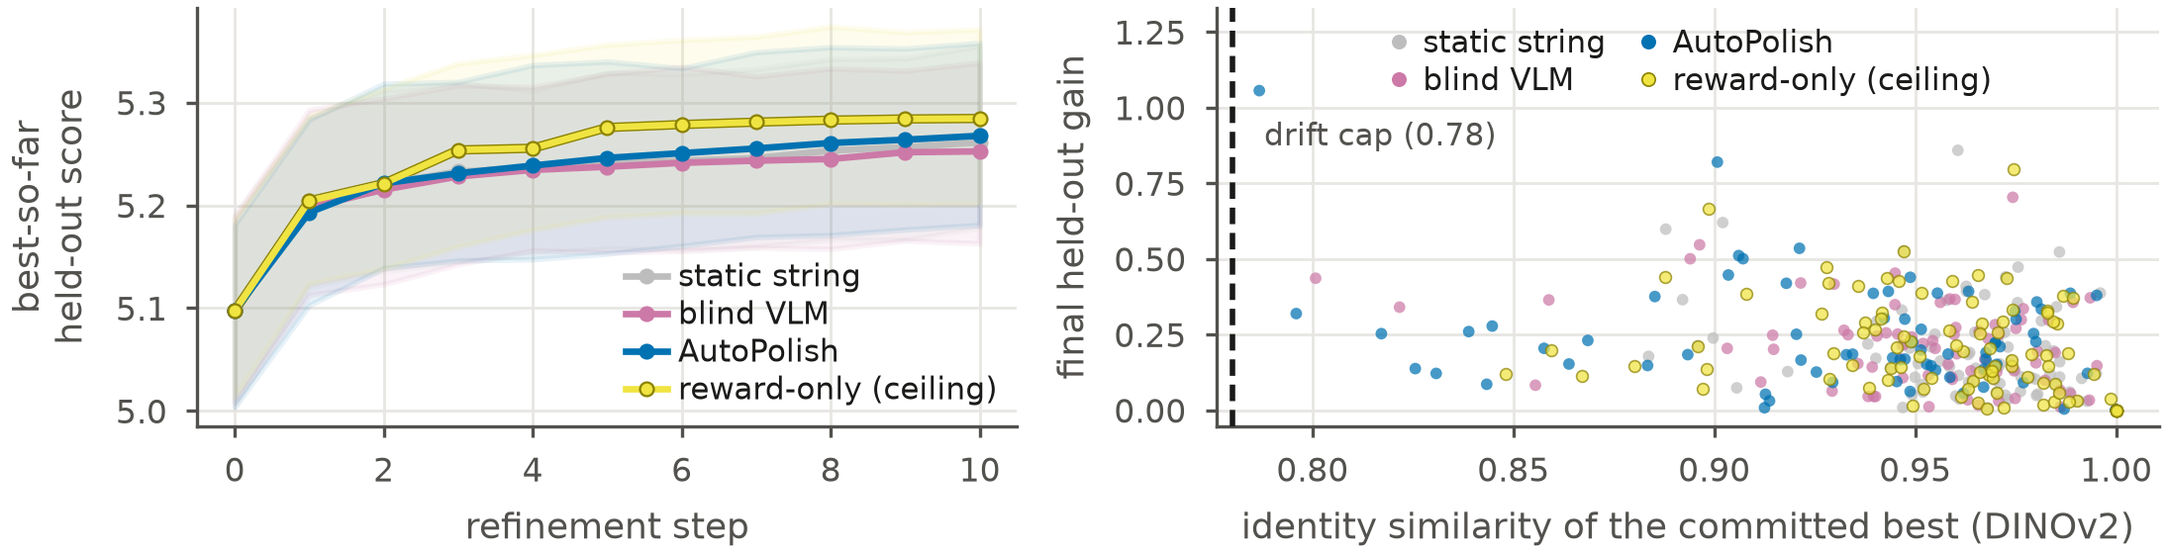
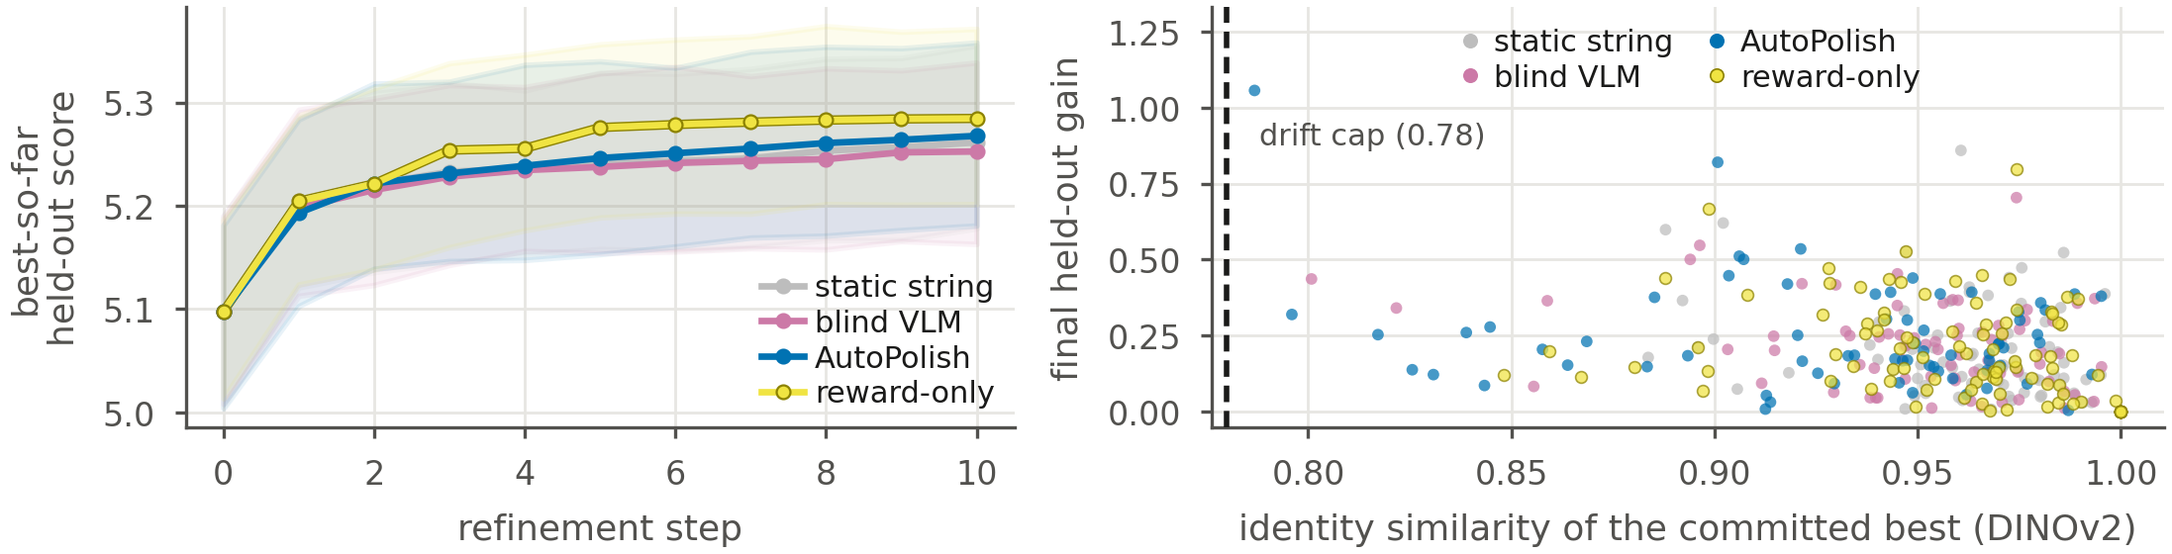
Add paired bootstrap for Table 3 and align editing claims with it
scripts/analysis/c4_paired.py compares AutoPolish with each other critic
image by image: 10,000 paired resamples drawn within PARA and EVA, a
Wilcoxon signed-rank test (exact McNemar for the share of improved images)
and Holm over the three comparisons, for gain, share improved and edit size.

The gains are statistically indistinguishable (Holm p >= 0.16), so the paper
now says so:
- Table 3 gets a "Delta vs AutoPolish [95% CI]" column, set in the style of
  Tables 4 and 5 so it fits the text width, with no bold on untested values.
- Section 5.4 reports the paired tests, calls gain per improved descriptive
  and states the single-seed limit. The appendix notes the 10,000 resamples.
- Abstract, introduction, contributions and conclusion say AutoPolish
  matches generic critics in average gain instead of beating them.
- Fig. 6 caption and text no longer claim AutoPolish pulls ahead; the
  K=1 ablation says "remains comparable" (paired p = 0.87 and 0.92).
- reward-only is called a baseline, not a ceiling: it has no critic and
  cycles through generic prompts. Fig. 6 legend regenerated to match.

diff --git a/docs/paper/accv-wrkshop/autopolish.tex b/docs/paper/accv-wrkshop/autopolish.tex
@@ -120,7 +120,7 @@ Sajjad Pakdamansavoji\inst{1}$^{\star}$\thanks{Corresponding author.}}
 \maketitle
 
 \begin{abstract}
-Text-guided image editing is an unscalable back-and-forth process. Relying on a single human operator restricts the final image to one person's taste, which often misaligns with the target audience. We propose \textbf{AutoPolish}, which replaces that single opinion with a synthetic audience, many copies of a vision-language model that each react as a different viewer described by a short profile. Their combined feedback stands in for how the intended audience would respond, and an auto-research style loop turns it into edits over a fixed number of rounds, keeping each edit only when an independent scorer rates it higher. Across three datasets of photographs and paintings, we show that only 19 to 47\% of one person's rating is shared with other viewers, while the averages of two separate groups agree at a correlation of up to $0.96$, so one viewer is a poor guide to a crowd. We also show that our audience captures how viewer groups differ up to $10\times$ better than the same model without profiles, and picks the crowd's favorite of two AI-generated images 6 percentage points more often than a simple baseline. In editing, AutoPolish improves images more than a single generic critic on average while keeping them recognizable, and proposes $3\times$ as many distinct changes.
+Text-guided image editing is an unscalable back-and-forth process. Relying on a single human operator restricts the final image to one person's taste, which often misaligns with the target audience. We propose \textbf{AutoPolish}, which replaces that single opinion with a synthetic audience, many copies of a vision-language model that each react as a different viewer described by a short profile. Their combined feedback stands in for how the intended audience would respond, and an auto-research style loop turns it into edits over a fixed number of rounds, keeping each edit only when an independent scorer rates it higher. Across three datasets of photographs and paintings, we show that only 19 to 47\% of one person's rating is shared with other viewers, while the averages of two separate groups agree at a correlation of up to $0.96$, so one viewer is a poor guide to a crowd. We also show that our audience captures how viewer groups differ up to $10\times$ better than the same model without profiles, and picks the crowd's favorite of two AI-generated images 6 percentage points more often than a simple baseline. In editing, AutoPolish matches generic critics in average gain while keeping images recognizable. It improves fewer images than a fixed instruction but makes larger edits, and proposes $3\times$ as many distinct changes.
 
 \keywords{Image editing \and Auto-Research \and Persona Simulation \and VLM}
 \end{abstract}
@@ -132,14 +132,14 @@ Historically, image editing required mastering fixed software operations. Editor
 
 Two lines of work have tried to take the operator out of this cycle, and each falls short on one of these limits. Computational aesthetics replaces the operator's judgment with a model that scores how good an image looks \cite{murray2012ava, talebi2018nima, ke2023vila, wu2024qalign}, but nearly every such model returns a single score per image, which averages over viewers who often disagree. That disagreement reflects real differences in taste rather than noise \cite{uma2021, plank2022, yang2022para}, so a single score speaks for an average viewer who does not exist, and models of individual taste \cite{ren2017personalized, zhu2022meta, pamela2026} need each user's own ratings. Aesthetic quality is therefore better understood as the reaction of an audience than as a property of the image, and a critic that stands in for the operator has to predict how a group of viewers would respond. Automated pipelines remove the time limit, but they either raise a fixed score in a single training run \cite{xu2023imagereward, black2024ddpo, wallace2024dpo} or let one model critique and repair its own output \cite{madaan2023selfrefine, wu2024sld, wang2024genartist}, in which case the model that proposes an edit also judges it and can mistake its own bias for improvement \cite{xu2024selfbias}. Editing, however, is a repeated cycle of editing, judging and trying again, and an automated editor has to run that cycle itself, trying different edits and keeping only those that a separate judge finds better while the image still looks like the original.
 
-We build \textbf{AutoPolish} around these two ideas. To replace the single score, we create a synthetic audience by asking one frozen vision-language model to react to an image many times, each time as a different viewer described by a short text profile that we call a persona, and we combine these reactions into a collective verdict and a list of complaints. To replace the operator's back-and-forth, we place this audience inside an auto-research style loop~\cite{karpathy2026autoresearch}, that is, a loop in which an agent proposes a change, the change is scored on a fixed metric, and it is kept only if the score improves. In our loop, the audience's complaints become an editing instruction, an image editor carries it out, and an independent scorer from a different model family keeps the edit only if it rates the result higher and the image still looks like the original. Our evaluations show that the audience suggests three times as many distinct edits as a single generic critic, such as adding plants and artwork to a bare office, while also improving the image more on average. A single simulated viewer barely beats a coin flip at guessing which of two images people prefer, yet twenty of them together agree with people two times in three, which is why we rely on an audience rather than one voice.
+We build \textbf{AutoPolish} around these two ideas. To replace the single score, we create a synthetic audience by asking one frozen vision-language model to react to an image many times, each time as a different viewer described by a short text profile that we call a persona, and we combine these reactions into a collective verdict and a list of complaints. To replace the operator's back-and-forth, we place this audience inside an auto-research style loop~\cite{karpathy2026autoresearch}, that is, a loop in which an agent proposes a change, the change is scored on a fixed metric, and it is kept only if the score improves. In our loop, the audience's complaints become an editing instruction, an image editor carries it out, and an independent scorer from a different model family keeps the edit only if it rates the result higher and the image still looks like the original. Our evaluations show that the audience suggests three times as many distinct edits as a single generic critic, such as adding plants and artwork to a bare office, while reaching a comparable average gain. A single simulated viewer barely beats a coin flip at guessing which of two images people prefer, yet twenty of them together agree with people two times in three, which is why we rely on an audience rather than one voice.
 
 Our contributions are as follows.
 
 \begin{itemize}[leftmargin=1.4em, itemsep=2pt, topsep=2pt, parsep=0pt]
 \item We simulate collective taste with a synthetic audience that captures how viewer groups differ $10\times$ better than the same model without profiles.
 
-\item We model the back-and-forth of editing with a custom auto-research loop that beats a generic critic on average and suggests $3\times$ as many distinct edits.
+\item We model the back-and-forth of editing with a custom auto-research loop that matches generic critics in average gain and suggests $3\times$ as many distinct edits.
 
 \item We evaluate on photographs, paintings and AI-generated images, where the audience beats a simple baseline by 6 percentage points on AI-generated pairs.
 \end{itemize}
@@ -252,13 +252,13 @@ Our contributions are as follows.
 \subsubsection{From a panel to a group prediction.} To predict how a viewer group responds to an image, we sample $N$ persona cards from the dataset and use them to judge the image, and summarize the reactions: the mean and spread of the scores, the most frequent complaints extracted from the rationales, and compare them with the ground truth scoring.
 
 Panel averaging alone fails because judge errors are systematic, not random. Ratings skew toward the middle: their standard deviation is just 51-58\% of humans', 34-56\% hit one value, and endpoints are rarely used. Averaging fixes random error, but shared compression remains. Thus, raw averages are less accurate than just predicting the population mean. We therefore correct post-inference scores via isotonic regression \cite{niculescu2005}. This fits a monotone map from raw to calibrated scores. We use two-fold cross-fitting over images, ensuring each rating is calibrated by an independently estimated map. The monotone map alters absolute error but preserves rankings, and acting only on outputs keeps model weights frozen. This map also transfers across datasets. We can fit it once on real images with human ratings, then apply it unchanged to generated images lacking them.
-\subsubsection{AutoPolish.} AutoPolish uses the group as the critic in an iterative editing loop, under the constraint that the model proposing edits and the model judging them are different, since a loop that scores its own edits can improve its objective without improving the image. Each image is refined for $R=10$ steps of (i) \textbf{critique}: the group views the current image, and its complaints are aggregated across personas and accumulated across steps into a single instruction of at most fifteen words; (ii) \textbf{anchored re-edit}: FLUX.1-Kontext-dev \cite{flux2024} applies that instruction to the \emph{original} image rather than the previous edit, so editing artifacts do not compound, producing $K=3$ candidates; (iii) \textbf{held-out scoring}: each candidate is scored by the LAION aesthetic predictor described above, a different model family from the critic, and checked for identity drift with DINOv2 \cite{oquab2023}; (iv) \textbf{accept-if-better}: the new image replaces the previous best image if the aesthetic score improves and DINOv2 similarity to the original stays above $0.78$, so the best-so-far score increases monotonically. We compare four critics: \textsc{static}, a fixed ``improve this image'' instruction; \textsc{blind}, a single persona-free critique; \textsc{society}, ten aggregated personas, which is our method; and \textsc{reward-only}, which optimizes the aesthetic predictor directly and is an upper reference rather than a comparable baseline. Every condition appends the same suffix asking for a visible edit, so the request sent to the editor is worded the same in every condition, and we deliberately do not score instruction adherence, which would favour whichever condition writes the instruction that is easiest to follow.
+\subsubsection{AutoPolish.} AutoPolish uses the group as the critic in an iterative editing loop, under the constraint that the model proposing edits and the model judging them are different, since a loop that scores its own edits can improve its objective without improving the image. Each image is refined for $R=10$ steps of (i) \textbf{critique}: the group views the current image, and its complaints are aggregated across personas and accumulated across steps into a single instruction of at most fifteen words; (ii) \textbf{anchored re-edit}: FLUX.1-Kontext-dev \cite{flux2024} applies that instruction to the \emph{original} image rather than the previous edit, so editing artifacts do not compound, producing $K=3$ candidates; (iii) \textbf{held-out scoring}: each candidate is scored by the LAION aesthetic predictor described above, a different model family from the critic, and checked for identity drift with DINOv2 \cite{oquab2023}; (iv) \textbf{accept-if-better}: the new image replaces the previous best image if the aesthetic score improves and DINOv2 similarity to the original stays above $0.78$, so the best-so-far score increases monotonically. We compare four critics: \textsc{static}, a fixed ``improve this image'' instruction; \textsc{blind}, a single persona-free critique; \textsc{society}, ten aggregated personas, which is our method; and \textsc{reward-only}, which has no critic and cycles through eight generic instructions, so that only the scorer's choice among candidates guides it. Every condition appends the same suffix asking for a visible edit, so the request sent to the editor is worded the same in every condition, and we deliberately do not score instruction adherence, which would favour whichever condition writes the instruction that is easiest to follow.
 
 \section{Experimental setup}
 
 \subsubsection{Data.} We use four public datasets in which every record ties an aesthetic judgment to the person who made it and to personal information about that person. PARA \cite{yang2022para} contains photographs, of which we use 4{,}000 with about 52k individual ratings, and describes its raters in the most detail: age, gender, education, art and photography experience, and Big-Five personality traits. EVA \cite{kang2020eva} contains 4{,}070 photographs drawn from AVA \cite{murray2012ava} with 137k ratings, but records only age, gender, region and photographic skill. LAPIS \cite{maerten2025lapis} contains paintings, of which we use 4{,}000 with 90k ratings, and records nationality, interest in art and age. Rapidata \cite{rapidata2024} contains 898 pairs of AI-generated images with 23{,}445 preference votes, and records each voter's country and language across 120 countries.
 
-\subsubsection{Models and baselines.} We compare three variants throughout the paper. The blind variant uses the model with no viewer profile, which in editing becomes a single critic or a fixed generic instruction, and it shows what the model does on its own. The synthetic audience, our approach, asks the same model to react to an image many times, each time as a different viewer described by a short profile, and combines these reactions into a group verdict that, in editing, also serves as the critic that guides each round. The oracle has access to the real ratings, either as a bar the synthetic audience must clear, such as always predicting the average rating or the more popular image, or as a ceiling, such as a second group of real viewers or, in editing, a loop that optimizes the scorer directly. The exact form of each variant depends on the experiment, and we describe it alongside the results.
+\subsubsection{Models and baselines.} We compare three variants throughout the paper. The blind variant uses the model with no viewer profile, which in editing becomes a single critic or fixed generic instructions, and it shows what the model does on its own. The synthetic audience, our approach, asks the same model to react to an image many times, each time as a different viewer described by a short profile, and combines these reactions into a group verdict that, in editing, also serves as the critic that guides each round. The oracle has access to the real ratings, either as a bar the synthetic audience must clear, such as always predicting the average rating or the more popular image, or as a ceiling, such as a second group of real viewers. The exact form of each variant depends on the experiment, and we describe it alongside the results.
 
 \subsubsection{Evaluation protocol.} To test whether the audience tells viewer groups apart, we use between-group separation. We split the raters of each image into groups by one attribute, such as age or interest in art, take the gap between every pair of groups in both the real and the predicted ratings, and report the correlation between the two, which rewards getting differences between viewers right rather than the overall average. To test whether a model knows which of two images people prefer, we report how often it picks the right one. To measure what editing achieves, we report the gain in aesthetic score and the share of images that improve, while checking that each edited image stays close to the original. We use bootstrap resampling over images to give a 95\% confidence interval for each difference between variants, and we correct for multiple testing when running several group tests. Throughout, the judge's scores are mapped onto the human rating scale by a correction fit on one half of the images and applied to the other, so no score is corrected using its own rating.
 
@@ -375,41 +375,41 @@ Figure~\ref{fig:generated} (left) shows that the vote of a single persona-condit
 \subsection{The synthetic audience can steer image editing}
 \label{sec:c4}
 
-We test whether the synthetic audience can serve as the critic in the loop of AutoPolish, improving images while keeping them recognizable. We run the loop for ten rounds on 100 photographs, 50 from PARA and 50 from EVA, and compare the four critics of Section~\ref{sec:method}: the static string (\textsc{static}), the blind VLM (\textsc{blind}), AutoPolish (\textsc{society}, ten personas) and the reward-only ceiling, which serves as an upper reference rather than a fair competitor (prompts in Appendix~\appref{sup:prompts}{A8}). All scores come from the independent scorer. Besides the gain in score and the share of images that improve, we report the gain on the images that do improve, the edit size, which is one minus the DINOv2 similarity between the final image and the original and is capped at 0.22 by the similarity floor of 0.78, and how many distinct complaints the critic raises per round.
+We test whether the synthetic audience can serve as the critic in the loop of AutoPolish, improving images while keeping them recognizable. We run the loop for ten rounds on 100 photographs, 50 from PARA and 50 from EVA, and compare the four critics of Section~\ref{sec:method}: the static string (\textsc{static}), the blind VLM (\textsc{blind}), AutoPolish (\textsc{society}, ten personas) and the reward-only baseline, which has no critic (prompts in Appendix~\appref{sup:prompts}{A8}). All scores come from the independent scorer. Besides the gain in score and the share of images that improve, we report the gain on the images that do improve, the edit size, which is one minus the DINOv2 similarity between the final image and the original and is capped at 0.22 by the similarity floor of 0.78, and how many distinct complaints the critic raises per round.
 
 \begin{table}[b]
-  \caption{Results of each critic over ten rounds on 100 photographs, where edit size is how much the final image differs from the original. AutoPolish gives the largest gain among the critics, the largest gain on the images it improves, and the most feedback.}
+  \caption{Results of each critic over ten rounds on 100 photographs, where edit size is how much the final image differs from the original and $\Delta$ is the gain of AutoPolish minus the critic's on the same images, with a 95\% paired bootstrap interval. The average gains are statistically indistinguishable, while AutoPolish makes the largest edits and gives the most feedback.}
   \label{tab:c4}
   \centering
-  \fontsize{8}{9.5}\selectfont
+  \fontsize{7.5}{9}\selectfont
   \setlength{\aboverulesep}{0pt}\setlength{\belowrulesep}{0pt}
   \renewcommand{\arraystretch}{1.1}
-  \setlength{\tabcolsep}{3.5pt}
-  \begin{tabular*}{\linewidth}{@{\extracolsep{\fill}}l|cccccc@{}}
+  \setlength{\tabcolsep}{2pt}
+  \begin{tabular*}{\linewidth}{@{\extracolsep{\fill}}l|ccccccc@{}}
     \toprule
-    \multirow{2}{*}{Critic} & \multirow{2}{*}{Gain $\uparrow$} & \multirow{2}{*}{95\% CI} & \multirow{2}{*}{Improved} & Gain per\rule{0pt}{2.4ex} & Edit & \multirow{2}{*}{Complaints $\uparrow$} \\
-    \rule[-0.8ex]{0pt}{0pt} & & & & improved $\uparrow$ & size & \\
+    \multirow{2}{*}{Critic} & \multirow{2}{*}{Gain $\uparrow$} & \multirow{2}{*}{95\% CI} & $\Delta$ vs AutoPolish\rule{0pt}{2.4ex} & Images & Gain per & Edit & Complaints \\
+    \rule[-0.8ex]{0pt}{0pt} & & & [95\% CI] & improved & improved & size & per round $\uparrow$ \\
     \midrule
-    static string\rule{0pt}{2.3ex} & $+0.164$ & [0.135, 0.196] & 84\% & 0.195 & 0.032 & n/a \\
-    blind VLM            & $+0.155$ & [0.126, 0.185] & 72\% & 0.215 & 0.036 & 1.00 \\
-    \textbf{AutoPolish (ours)}\rule[-0.7ex]{0pt}{0pt} & $\mathbf{+0.170}$ & [0.136, 0.207] & 69\% & \textbf{0.247} & \textbf{0.049} & \textbf{3.12} \\
+    static string\rule{0pt}{2.3ex} & 0.164 & [0.135,\,0.196] & 0.006 [$-$0.020,\,0.037] & 84\% & 0.195 & 0.032 & n/a \\
+    blind VLM            & 0.155 & [0.126,\,0.185] & 0.015 [$-$0.010,\,0.043] & 72\% & 0.215 & 0.036 & 1.00 \\
+    \textbf{AutoPolish}\rule[-0.7ex]{0pt}{0pt} & 0.170 & [0.136,\,0.207] & n/a & 69\% & 0.247 & 0.049 & \textbf{3.12} \\
     \midrule
-    \textit{reward-only (ceiling)}\rule{0pt}{2.3ex}\rule[-0.7ex]{0pt}{0pt} & $+0.187$ & [0.157, 0.221] & 86\% & 0.218 & 0.040 & n/a \\
+    \textit{reward-only}\rule{0pt}{2.3ex}\rule[-0.7ex]{0pt}{0pt} & 0.187 & [0.157,\,0.221] & $-$0.017 [$-$0.045,\,0.013] & 86\% & 0.218 & 0.040 & n/a \\
     \bottomrule
   \end{tabular*}
 \end{table}
 
-Table~\ref{tab:c4} shows that AutoPolish gives the largest score gain of the three critics, raising the independent score by 0.170 on average, from 5.10 to 5.27, against 0.164 for the static string and 0.155 for the blind VLM. Our method improves fewer images than the static string, 69\% against 84\%, but changes the ones it improves more. The gain on those images is 0.247, higher than for any other critic and the reward-only ceiling (0.218), and its edits are the largest (0.049), while every critic stays well below the cap of 0.22. AutoPolish also raises about three distinct complaints per round, against one for the blind VLM, while the static string always repeats the same instruction.
+Table~\ref{tab:c4} shows that AutoPolish raises the independent score by 0.170 on average, from 5.10 to 5.27, more than the static string (0.164) and the blind VLM (0.155) but less than the reward-only baseline (0.187). Compared image by image, however, every difference in gain has an interval that includes zero and none survives a Holm correction over the three comparisons (Wilcoxon signed-rank, Holm $p \geq 0.16$), so the average gains are statistically indistinguishable. Our method improves fewer images than the static string, 69\% against 84\% (McNemar, Holm $p = 0.008$), but changes the ones it improves more. The gain on those images is 0.247, higher than for any other critic, including the reward-only baseline (0.218), but this comparison is only descriptive, since each critic improves a different set of images. Its edits are also the largest (0.049), though clearly so only against the static string (Holm $p = 0.03$), while every critic stays well below the cap of 0.22. Each critic ran once with a single seed, so these intervals cover variation over images, not over seeds. AutoPolish also raises about three distinct complaints per round, against one for the blind VLM, while the static string always repeats the same instruction.
 
 \begin{figure}[t]
   \centering
   \captionsetup{skip=3pt}% tighter image-to-caption gap, this float only
   \includegraphics[width=\linewidth]{figs/pf_autopolish_accv.png}
-  \caption{How each critic behaves over ten rounds. \textbf{(left)} Best score so far at each round, averaged over 100 photographs, with a 95\% bootstrap band. \textbf{(right)} Final gain of each image against its similarity to the original, with the 0.78 floor marked. AutoPolish leads from the fourth round, and almost every image stays far above the floor.}
+  \caption{How each critic behaves over ten rounds. \textbf{(left)} Best score so far at each round, averaged over 100 photographs, with a 95\% bootstrap band. \textbf{(right)} Final gain of each image against its similarity to the original, with the 0.78 floor marked. The curves of all critics stay within each other's bootstrap bands, and almost every image stays far above the floor.}
   \label{fig:c4quant}
 \end{figure}
 
-Figure~\ref{fig:c4quant} (left) shows that most of the gain arrives in the first few rounds, but the difference between critics becomes clearer as the rounds go on, with AutoPolish starting slightly behind and pulling ahead of the other critics from the fourth round. Figure~\ref{fig:c4quant} (right) shows that almost every final image stays well above the similarity floor. Figure~\ref{fig:c4prog} shows how AutoPolish gradually improves images over several rounds while keeping them similar to the original. Figure~\ref{fig:c4qual} compares the critics on the same images and shows the larger edits and gains of AutoPolish. Together, these results suggest that the synthetic audience is an effective critic for editing, exceeding simpler critics in average score while making larger and more concrete changes. Appendix~\appref{sup:c4qual}{A7} gives more examples.
+Figure~\ref{fig:c4quant} (left) shows that every critic makes about 80\% of its gain in the first three rounds, and that the curves of all critics stay within each other's bootstrap bands throughout. Figure~\ref{fig:c4quant} (right) shows that almost every final image stays well above the similarity floor. Figure~\ref{fig:c4prog} shows how AutoPolish gradually improves images over several rounds while keeping them similar to the original. Figure~\ref{fig:c4qual} compares the critics on the same images and shows the larger edits and gains of AutoPolish on the images where it helped most. Together, these results suggest that the synthetic audience is an effective critic for editing, matching simpler critics in average score while making larger changes. Appendix~\appref{sup:c4qual}{A7} gives more examples.
 
 \begin{figure}[tb]
   \centering
@@ -455,7 +455,7 @@ Figure~\ref{fig:c4quant} (left) shows that most of the gain arrives in the first
   \end{tabular*}
 \end{table}
 
-\textbf{Accept-if-better rule.} The AutoPolish loop keeps a new edit only if the independent scorer, the LAION aesthetic predictor, rates it higher than the best image so far. We test the effect of this rule by removing it, so that the best candidate of each round replaces the current image even when it scores lower. Table~\ref{tab:abl-guard}a shows that without the rule the gain of AutoPolish falls from 0.170 to 0.024 and that of the blind VLM from 0.155 to 0.008, so that neither differs from zero any more, while the static string and the reward-only ceiling keep less than half of their gain. The rule is therefore essential, because the critics propose bold changes and the independent scorer decides which of them to keep.
+\textbf{Accept-if-better rule.} The AutoPolish loop keeps a new edit only if the independent scorer, the LAION aesthetic predictor, rates it higher than the best image so far. We test the effect of this rule by removing it, so that the best candidate of each round replaces the current image even when it scores lower. Table~\ref{tab:abl-guard}a shows that without the rule the gain of AutoPolish falls from 0.170 to 0.024 and that of the blind VLM from 0.155 to 0.008, so that neither differs from zero any more, while the static string and the reward-only baseline keep less than half of their gain. The rule is therefore essential, because the critics propose bold changes and the independent scorer decides which of them to keep.
 
 \textbf{Identity preservation.} AutoPolish also rejects any candidate whose similarity to the original falls below 0.78, so that the edited image keeps its identity. We test what this similarity floor protects by removing it and measuring how far the final images move from the original. Table~\ref{tab:abl-guard}b shows that without the floor the edit size of our method more than doubles, from 0.049 to 0.108, and 12\% of its final images fall below a similarity of 0.78, with the lowest at 0.07. These 12 images gain 0.502 on average, about three times the gain of the full loop. The floor therefore keeps AutoPolish an editor rather than an image generator.
 
@@ -481,13 +481,13 @@ Figure~\ref{fig:c4quant} (left) shows that most of the gain arrives in the first
   \end{tabular*}
 \end{table}
 
-\textbf{Candidates per round.} At each round the editor produces three candidates from different random seeds, and the loop keeps the one that the independent scorer, the LAION aesthetic predictor, rates highest. We test whether this selection, rather than the critic, produces the gain by keeping only the first one or two candidates of every round. Table~\ref{tab:abl-setting}a shows that with a single candidate AutoPolish still gains 0.141, which is 83\% of its gain with three, and stays ahead of the static string and the blind VLM at 0.130 and 0.131. Going from one to three candidates adds between 0.024 and 0.034 to every critic, so the selection among candidates explains only a small part of the gain.
+\textbf{Candidates per round.} At each round the editor produces three candidates from different random seeds, and the loop keeps the one that the independent scorer, the LAION aesthetic predictor, rates highest. We test whether this selection, rather than the critic, produces the gain by keeping only the first one or two candidates of every round. Table~\ref{tab:abl-setting}a shows that with a single candidate AutoPolish still gains 0.141, which is 83\% of its gain with three, and remains comparable to the static string and the blind VLM at 0.130 and 0.131. Going from one to three candidates adds between 0.024 and 0.034 to every critic, so the selection among candidates explains only a small part of the gain.
 
-\textbf{Similarity floor.} Since the floor protects the identity of the image, we also test how much the results depend on its value by varying it between 0.70 and 0.94 and by removing it. Table~\ref{tab:abl-setting}b shows that the floor only limits the critics that write their own instructions, since the static string and the reward-only ceiling keep almost the same gain at every floor up to 0.86, whereas the gain of AutoPolish rises to 0.215 without a floor, above the reward-only ceiling of 0.187. All of this extra gain comes from the images that lose their identity in Table~\ref{tab:abl-guard}b. Tightening the floor to 0.94 instead lowers every critic to between 0.121 and 0.159. The floor therefore trades gain against closeness to the original, and AutoPolish is the critic that presses hardest against it.
+\textbf{Similarity floor.} Since the floor protects the identity of the image, we also test how much the results depend on its value by varying it between 0.70 and 0.94 and by removing it. Table~\ref{tab:abl-setting}b shows that the floor only limits the critics that write their own instructions, since the static string and the reward-only baseline keep almost the same gain at every floor up to 0.86, whereas the gain of AutoPolish rises to 0.215 without a floor, above the reward-only baseline (0.187). All of this extra gain comes from the images that lose their identity in Table~\ref{tab:abl-guard}b. Tightening the floor to 0.94 instead lowers every critic to between 0.121 and 0.159. The floor therefore trades gain against closeness to the original, and AutoPolish is the critic that presses hardest against it.
 
 \section{Conclusion}
 
-We presented AutoPolish, an automated image editor that replaces the single person guiding each round of editing with a synthetic audience, many copies of one vision-language model that each react as a different viewer, and keeps an edit only when an independent scorer rates it higher and the image still resembles the original. We showed that such an audience captures how real groups of viewers differ, and that in editing it improves images more than a generic critic on average while proposing three times as many distinct changes, with the independent scorer and the similarity floor turning these bolder proposals into gains that keep the image recognizable. Since the audience is only as faithful as its profiles and our gains are measured by an automatic scorer, the natural next step is to test with real viewers whether they prefer the edits their synthetic counterpart requests.
+We presented AutoPolish, an automated image editor that replaces the single person guiding each round of editing with a synthetic audience, many copies of one vision-language model that each react as a different viewer, and keeps an edit only when an independent scorer rates it higher and the image still resembles the original. We showed that such an audience captures how real groups of viewers differ, and that in editing it matches a generic critic in average gain while proposing three times as many distinct changes, with the independent scorer and the similarity floor turning these bolder proposals into gains that keep the image recognizable. Since the audience is only as faithful as its profiles and our gains are measured by an automatic scorer, the natural next step is to test with real viewers whether they prefer the edits their synthetic counterpart requests.
 
 % TODO FINAL: add acknowledgements here (omitted for double-blind review).
 
@@ -527,7 +527,7 @@ We presented AutoPolish, an automated image editor that replaces the single pers
 \newcommand{\tstrut}{\rule{0pt}{2.3ex}}
 \newcommand{\bstrut}{\rule[-0.7ex]{0pt}{0pt}}
 
-This appendix gives further detail behind the main paper. Appendix~\ref{sup:data} summarizes the four datasets, Appendix~\ref{sup:calib} explains why the audience's ratings need calibration and how well the calibration carries over between datasets, Appendix~\ref{sup:probe} describes the classifier that reads a rater's profile from the comments, and Appendix~\ref{sup:fig2} lists the exact values behind Figure~\ref{fig:persona}. Appendix~\ref{sup:robust} tests the audience against the most likely objections and Appendix~\ref{sup:fairness} measures whether it treats all kinds of viewers alike. Appendix~\ref{sup:c4qual} shows more AutoPolish edits, Appendix~\ref{sup:prompts} gives every prompt verbatim, and Appendix~\ref{sup:example} follows one image through one round of the loop. We close with future directions, ethics and reproducibility. Every confidence interval comes from 1{,}000 bootstrap resamples of images or raters, as stated with each result.
+This appendix gives further detail behind the main paper. Appendix~\ref{sup:data} summarizes the four datasets, Appendix~\ref{sup:calib} explains why the audience's ratings need calibration and how well the calibration carries over between datasets, Appendix~\ref{sup:probe} describes the classifier that reads a rater's profile from the comments, and Appendix~\ref{sup:fig2} lists the exact values behind Figure~\ref{fig:persona}. Appendix~\ref{sup:robust} tests the audience against the most likely objections and Appendix~\ref{sup:fairness} measures whether it treats all kinds of viewers alike. Appendix~\ref{sup:c4qual} shows more AutoPolish edits, Appendix~\ref{sup:prompts} gives every prompt verbatim, and Appendix~\ref{sup:example} follows one image through one round of the loop. We close with future directions, ethics and reproducibility. Every confidence interval comes from 1{,}000 bootstrap resamples of images or raters, as stated with each result, except the paired differences between critics in Table~\ref{tab:c4}, which use 10{,}000 resamples of images drawn separately within PARA and within EVA.
 
 \section{Datasets}
 \label{sup:data}
@@ -889,12 +889,12 @@ Viewers looking at this image want these changes:\\
 Rewrite everything into ONE concrete imperative photo-edit instruction of at most 15 words that an image editor can apply. Output only the instruction.
 \end{promptbox}
 
-\subsubsection{Editor instructions shared by all critics.} The static string uses one fixed instruction in every round, the reward-only ceiling cycles through eight generic instructions, and the other critics write their own. For every critic, the same request for a visible edit is appended to the instruction before it reaches the image editor.
+\subsubsection{Editor instructions shared by all critics.} The static string uses one fixed instruction in every round, the reward-only baseline cycles through eight generic instructions, and the other critics write their own. For every critic, the same request for a visible edit is appended to the instruction before it reaches the image editor.
 \begin{promptbox}{Static string (fixed instruction)}
 \ttfamily
 Improve the overall aesthetic quality of this image.
 \end{promptbox}
-\begin{promptbox}{Reward-only ceiling (one per round, in this order, repeating after the eighth)}
+\begin{promptbox}{Reward-only baseline (one per round, in this order, repeating after the eighth)}
 \ttfamily
 Improve the overall aesthetic quality of this image.\\
 Enhance lighting, contrast, and color balance.\\

diff --git a/scripts/analysis/c4_paired.py b/scripts/analysis/c4_paired.py
@@ -1,0 +1,129 @@
+"""C4 paired comparison — AutoPolish against every other critic, image by image (Table 3).
+
+All four critics edit the same 100 source images, so each comparison is paired. For each
+image and each other critic we take d = metric(society) - metric(other) and report:
+
+  1. the mean of d with a 95% paired bootstrap CI. Images are resampled with replacement,
+     separately within PARA and within EVA (50 each), and the same draw serves both
+     critics, which is what makes it paired;
+  2. a paired p-value: Wilcoxon signed-rank for the final gain and the edit size, and the
+     exact McNemar test for the share of improved images, whose paired differences are
+     only -1, 0 or +1 (Wilcoxon on those reduces to a sign test, and McNemar is its exact
+     form);
+  3. Holm over the three comparisons (static, blind, reward-only) within each metric.
+
+Gain per improved image is not tested: each critic improves a different subset of images,
+so the two means are not paired. It stays descriptive.
+
+The run has one seed, so the bootstrap covers variation over images, not over seeds.
+
+Pure re-analysis: no GPU/inference. Run from ``scripts/analysis/``.
+
+    python c4_paired.py                         # reads data/results/c4_run2/logs
+    python c4_paired.py --logs-dir <dir>
+"""
+from __future__ import annotations
+
+import argparse
+import os
+
+import numpy as np
+from scipy import stats
+
+from c4_trajectory import _finals, load_c4
+from common import REPO, write_json
+
+DEFAULT_LOGS = os.path.join(REPO, "data", "results", "c4_run2", "logs")
+OURS = "society"
+OTHERS = ["static", "blind", "reward_only"]
+N_BOOT = 10_000
+ALPHA = 0.05
+
+
+def _per_image(finals: dict) -> dict[str, dict[str, float]]:
+    """image_id -> the three paired metrics of one critic."""
+    return {i: {"gain": f["gain"], "improved": float(f["gain"] > 0),
+                "edit_size": 1.0 - f["drift_final"]} for i, f in finals.items()}
+
+
+def _paired_ci(d: np.ndarray, strata: np.ndarray, rng: np.random.Generator) -> list[float]:
+    """95% CI of mean(d), resampling images with replacement within each stratum."""
+    draws = np.zeros(N_BOOT)
+    for s in np.unique(strata):
+        ds = d[strata == s]
+        draws += ds[rng.integers(0, len(ds), size=(N_BOOT, len(ds)))].sum(axis=1)
+    draws /= len(d)
+    return [float(np.percentile(draws, 2.5)), float(np.percentile(draws, 97.5))]
+
+
+def _mcnemar_exact(a: np.ndarray, b: np.ndarray) -> float:
+    """Two-sided exact McNemar p for paired binary outcomes a, b."""
+    n01, n10 = int(((a == 1) & (b == 0)).sum()), int(((a == 0) & (b == 1)).sum())
+    if n01 + n10 == 0:
+        return 1.0
+    return float(stats.binomtest(n01, n01 + n10, 0.5).pvalue)
+
+
+def _holm(ps: list[float]) -> list[float]:
+    """Holm step-down adjusted p-values, in the input order (same rule as holm.py)."""
+    order = np.argsort(ps)
+    adj, prev, K = [0.0] * len(ps), 0.0, len(ps)
+    for i, j in enumerate(order):
+        prev = max(prev, ps[j] * (K - i))
+        adj[j] = min(prev, 1.0)
+    return adj
+
+
+def analyze(logs_dir: str) -> dict:
+    per = {c: _per_image(_finals(load_c4(c, logs_dir))) for c in [OURS] + OTHERS}
+    ids = sorted(per[OURS])
+    for c in OTHERS:
+        if sorted(per[c]) != ids:
+            raise SystemExit(f"{c} and {OURS} were not run on the same images.")
+    strata = np.array([i.split("__")[0] for i in ids])
+    rng = np.random.default_rng(0)
+
+    res: dict = {"n_images": len(ids), "n_boot": N_BOOT,
+                 "strata": {str(s): int((strata == s).sum()) for s in np.unique(strata)},
+                 "difference": f"{OURS} minus other", "metrics": {}}
+    for m in ("gain", "improved", "edit_size"):
+        a = np.array([per[OURS][i][m] for i in ids])
+        rows = {}
+        for c in OTHERS:
+            b = np.array([per[c][i][m] for i in ids])
+            d = a - b
+            if m == "improved":
+                p, test = _mcnemar_exact(a, b), "mcnemar_exact"
+            else:
+                p, test = float(stats.wilcoxon(a, b).pvalue), "wilcoxon_signed_rank"
+            rows[c] = {"ours": float(a.mean()), "other": float(b.mean()),
+                       "mean_diff": float(d.mean()), "ci95": _paired_ci(d, strata, rng),
+                       "n_ours_higher": int((d > 0).sum()), "n_other_higher": int((d < 0).sum()),
+                       "n_tied": int((d == 0).sum()), "test": test, "p": p}
+        for c, ph in zip(OTHERS, _holm([rows[c]["p"] for c in OTHERS])):
+            rows[c]["holm_p"] = ph
+            rows[c]["ci_excludes_zero"] = not (rows[c]["ci95"][0] <= 0 <= rows[c]["ci95"][1])
+        res["metrics"][m] = rows
+    return res
+
+
+def main() -> None:
+    p = argparse.ArgumentParser(description=__doc__.splitlines()[0])
+    p.add_argument("--logs-dir", default=DEFAULT_LOGS)
+    args = p.parse_args()
+    res = analyze(args.logs_dir)
+    print(f"{OURS} minus each critic, {res['n_images']} images {res['strata']}, "
+          f"{N_BOOT} paired resamples within dataset")
+    hdr = f"{'metric':10}{'vs':13}{'diff':>9}{'95% CI':>22}{'+/-/=':>12}{'p':>10}{'Holm p':>9}"
+    print(hdr); print("-" * len(hdr))
+    for m, rows in res["metrics"].items():
+        for c, r in rows.items():
+            ci = f"[{r['ci95'][0]:+.3f}, {r['ci95'][1]:+.3f}]"
+            cnt = f"{r['n_ours_higher']}/{r['n_other_higher']}/{r['n_tied']}"
+            print(f"{m:10}{c:13}{r['mean_diff']:>+9.3f}{ci:>22}{cnt:>12}"
+                  f"{r['p']:>10.4f}{r['holm_p']:>9.4f}")
+    print("wrote", write_json(res, "c4_paired.json"))
+
+
+if __name__ == "__main__":
+    main()

diff --git a/scripts/analysis/paper_figs.py b/scripts/analysis/paper_figs.py
@@ -702,7 +702,7 @@ def fig_breadth_category() -> str:
 # --------------------------------------------------------------------------
 def fig_autopolish(logs_dir: str, drift_cap: float = 0.78, labels: dict | None = None,
                    out_name: str = "pf_autopolish.png", pad_inches: float = 0.1) -> str:
-    labels = labels or C4LABELS   # per-venue legend names (ACCV says "ceiling")
+    labels = labels or C4LABELS   # per-venue legend names (ACCV: plain "reward-only")
     data = {c: load_c4(c, logs_dir) for c in CONDITIONS}
     present = [c for c in CONDITIONS if len(data[c])]
 
@@ -1134,7 +1134,7 @@ if __name__ == "__main__":
     print("wrote", fig_bias_wide())
     print("wrote", fig_breadth_category())
     print("wrote", fig_autopolish(logs))
-    print("wrote", fig_autopolish(logs, labels={**C4LABELS, "reward_only": "reward-only (ceiling)"},
+    print("wrote", fig_autopolish(logs, labels={**C4LABELS, "reward_only": "reward-only"},
                                   out_name="pf_autopolish_accv.png", pad_inches=0.02))
     print("wrote", fig_qualitative(logs, edits, n_show=args.n_show,
                                    out_name="pf_qualitative%s.png" % args.suffix))
